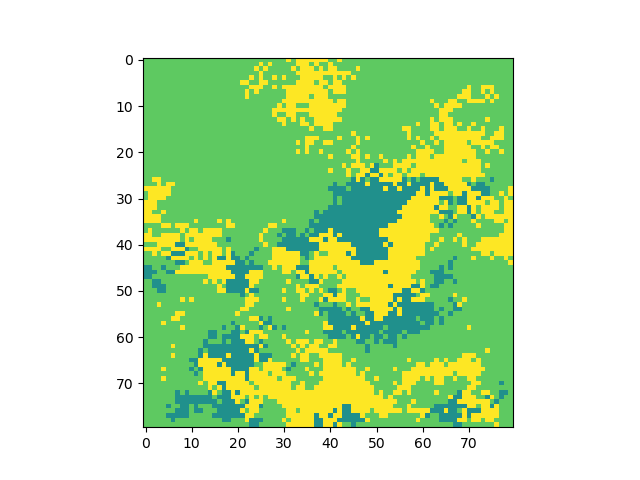
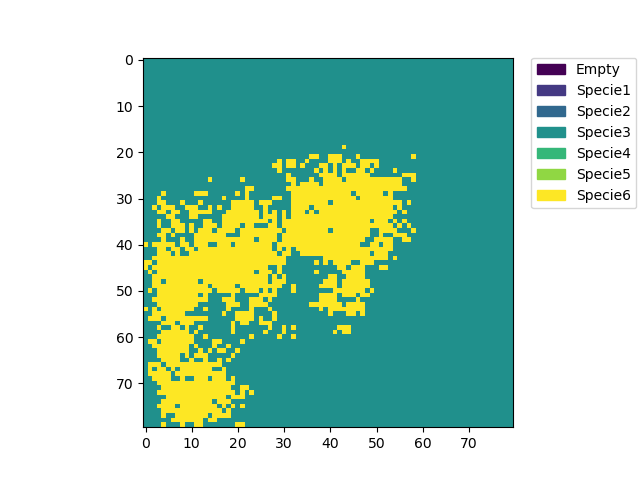
versão final da final

diff --git a/main.py b/main.py
@@ -7,14 +7,23 @@ import matplotlib.patches as mpatches
 import matplotlib.animation as animation
 import pickle
 from IPython import display
+import itertools
+import sys
 
 GRID_SIZE = 80
-MAX_ESPECIES = 6
-lamb = 50
-sigma = 0.05 
+MAX_ESPECIES = 12
+LAMB = 20
+SIGMA = 0.05
 LOAD_STATE = False#If true load serialized objects from previous sim
-SAVE_STATE = True#If true serialize objects in the for post sims
-SAVE_IMAGE = True#If true animation will not be displayed, only the final frames
+SAVE_STATE = False#If true serialize objects in the for post sims
+SAVE_IMAGE = True#If true animation will not be displayed, only the final frames the it will need to be closed
+GRID_SEARCH = False# If true will run for all combinations betwen params below, if false, only runs for default values
+
+#Grid of hyper params
+l = [20,50,150]
+sig = [0.01,0.05,0.1]
+MAX = [6,12]
+args = [l,sig,MAX]
 
 def animate(frameNum, img,grid,arrival_func,competing_func,species,lamb):
     '''
@@ -36,7 +45,6 @@ def load_run():
         species = pickle.load(infile)
         #reset inidivual count atributes for each re sim
         for specie in species:
-            print(specie.historical_individual)
             specie.individuals = 0 #Reset number of individuals
             specie.historical_individual = list() #Reset number of individuals            
     with open("./species/conf_matrix.pickle", "rb") as infile:
@@ -57,7 +65,7 @@ def save_run(species: list,conf_matrix: np.array):
     with open("./species/conf_matrix.pickle", "wb") as outfile:
         # "wb" argument opens the file in binary mode
         pickle.dump(conf_matrix, outfile)
-def main():
+def main(lamb = LAMB, sigma = SIGMA, MAX_ESPECIES = MAX_ESPECIES):
     if LOAD_STATE:#load previous state
         species,Species.conflict_matrix = load_run()
     else: #create new objects states to the run
@@ -65,17 +73,19 @@ def main():
         Species.initialize_matrix(MAX_ESPECIES)
     print(Species.conflict_matrix)
     grid = Grid(GRID_SIZE)
-    grid.update_grid(func.a,func.e,species,lamb) #Give some points to make animate func work
+    
+    #Update the grid until it has at least one species in it for matters of plotting in animation.
+    while not grid.table.any():
+        grid.update_grid(func.a,func.e,species,lamb) #Give some points to make animate func work
     updateInterval = 100
 
     #Generate plot fig
     fig, ax = plt.subplots()
-    img = ax.imshow(grid.table, interpolation='nearest')
+    img = ax.imshow(grid.table, interpolation='nearest',cmap='viridis')
     # colormap used by imshow
     colors = [ img.cmap(img.norm(value)) for value in range(len(species)+1)]
-    print(colors)
     # create a patch (proxy artist) for every color 
-    patches = [ mpatches.Patch(color=colors[i], label=f"{'empty' if i==0 else 'Specie'+str(i)}".format(l=i) ) for i in range(len(species)+1) ]
+    patches = [ mpatches.Patch(color=colors[i], label=f"{'Empty' if i==0 else 'Specie'+str(i)}".format(l=i) ) for i in range(len(species)+1) ]
     # put those patched as legend-handles into the legend
     plt.legend(handles=patches, bbox_to_anchor=(1.05, 1), loc=2, borderaxespad=0. )
     #Update frame and makes animation
@@ -85,24 +95,28 @@ def main():
         print('Saving image, it may take a while...')
         ani.save(f'./sims/s={MAX_ESPECIES}_lambda={lamb}_sigma={sigma}_animated.gif', writer="Pillow",fps=60)
         fig.savefig(f'./sims/s={MAX_ESPECIES}_lambda={lamb}_sigma={sigma}.png')
-        plt.show()
+        plt.close()
     else:
         plt.show()
 
     #Plot individual numbers over time
-    
+    fig, ax = plt.subplots(2)
+    fig.set_figheight(5)
+    fig.set_figwidth(10)
     for specie in species:
-        plt.legend()
-        plt.plot(np.array(range(len(specie.historical_individual))),specie.historical_individual, label = f'Espécie {specie.id}',c = colors[specie.id])
-        
+        ax[1].scatter(specie.D,specie.E,color=colors[specie.id])
+        ax[0].plot(np.array(range(len(specie.historical_individual))),specie.historical_individual, label = f'Species: {specie.id}',c = colors[specie.id])
+        fig.legend()
     #Saving img in sims folder
     if SAVE_IMAGE:
         plt.savefig(f'./sims/s={MAX_ESPECIES}_lambda={lamb}_sigma={sigma}_graf.jpg')
-    plt.show()
-
-
+    else:
+        plt.show()
+    #Save state for future runs
     if SAVE_STATE:
         save_run(species,Species.conflict_matrix)
 
 if __name__ == '__main__':
-    main()
+    main(50, 0.1, 6)
+
+#[(20, 0.01, 6), ((20, 0.01, 12)), (20, 0.05, 6), (20, 0.05, 12), (20, 0.1, 6), (20, 0.1, 12), (50, 0.01, 6), (50, 0.01, 12), (50, 0.05, 6), (50, 0.05, 12), (50, 0.1, 6), (50, 0.1, 12), (150, 0.01, 6), (150, 0.01, 12), (150, 0.05, 6), (150, 0.05, 12), (150, 0.1, 6), (150, 0.1, 12)]

diff --git a/especies.py b/especies.py
@@ -1,7 +1,7 @@
 import numpy as np
 
 def truncated_normal(mean=0, sd=1, low=0, upp=1):
-    sample = np.random.normal(loc=0.25,scale=sd)
+    sample = np.random.normal(loc=mean,scale=sd)
     if sample < 0:
         sample = 0.000001
     elif sample >1:
@@ -16,7 +16,7 @@ class Species:
     
     def __init__(self,sigma):
         self.E = truncated_normal(mean=0.25,sd=sigma)
-        self.D = truncated_normal(mean=0.1,sd=sigma)
+        self.D = truncated_normal(mean=0.15,sd=sigma)
         self.id = Species.count
         self.historical_individual = list()
         self.individuals = 0

diff --git a/grid.py b/grid.py
@@ -42,7 +42,7 @@ class Grid:
         #Update Individuals values
         for i in range(self.M):
             for j in range(self.M):
-                species[self.table[i, j] - 1].individuals += 1
+                if self.table[i, j] != 0:
+                    species[self.table[i, j] - 1].individuals += 1
 
-    
         return self.table
